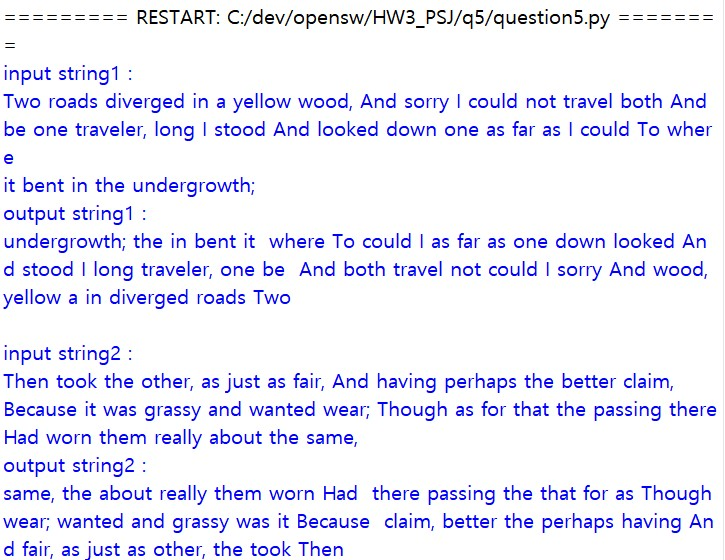
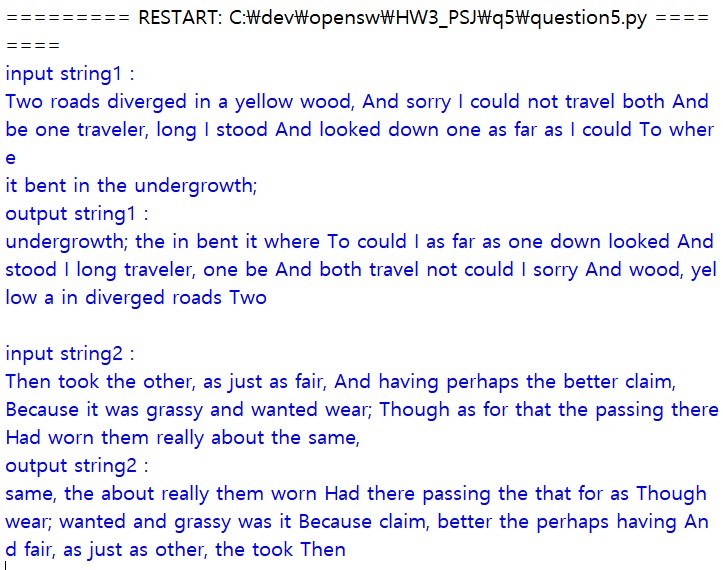
question5 modified

diff --git a/q5/question5.py b/q5/question5.py
@@ -3,7 +3,9 @@ def reverse_words(string):
     str_list.reverse()
     string = ""
     for i in range(0, len(str_list)):
-        string += str_list[i]
+        if (str_list[i].strip() == ""):
+            continue
+        string += str_list[i].strip()
         if (i != len(str_list) - 1):
             string += " "
     return string
